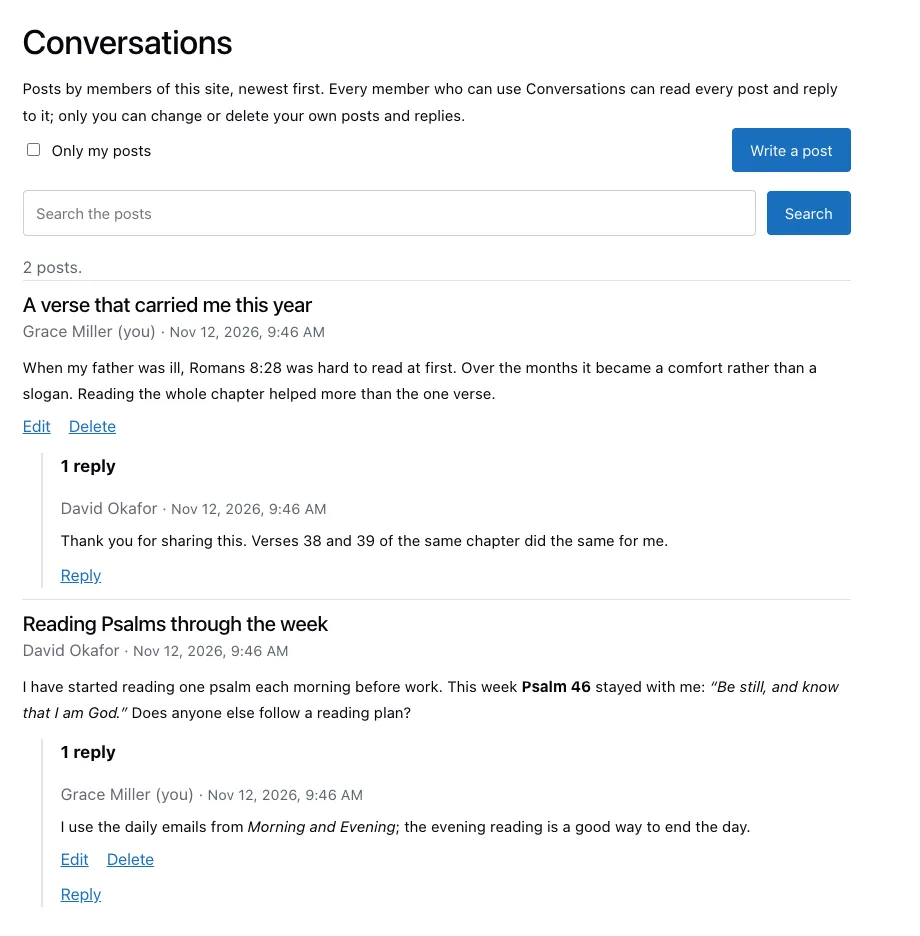
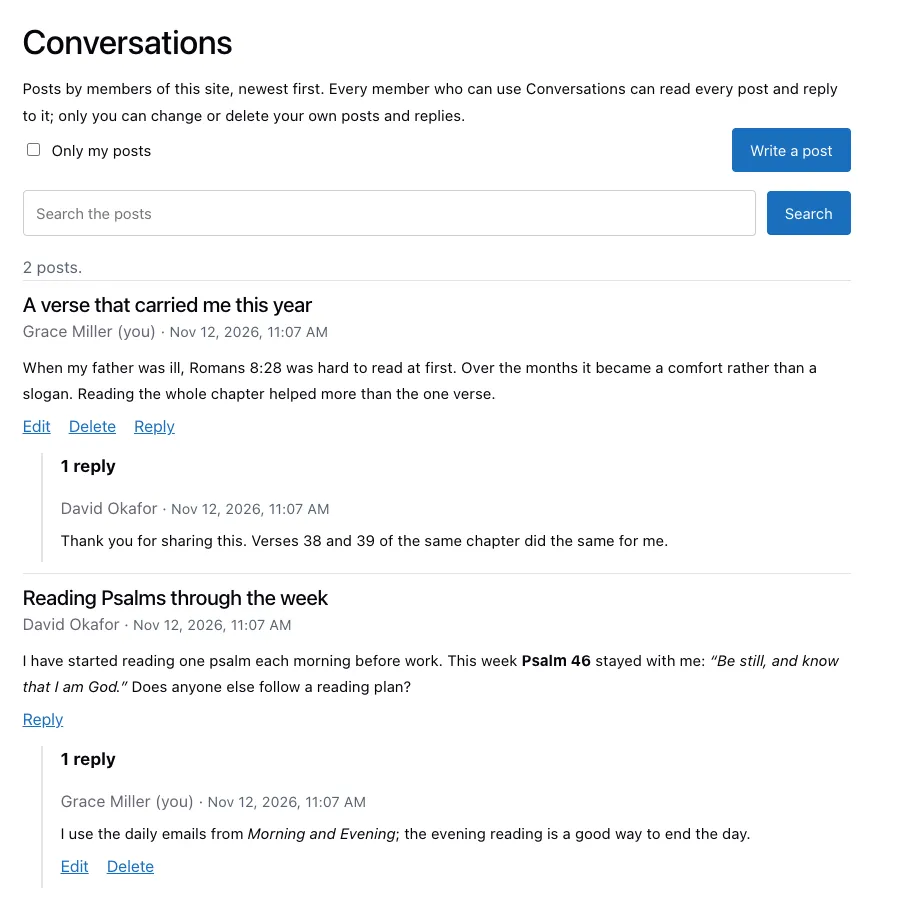
Put Reply on the post's own line in Conversations
Reply now sits beside Edit and Delete (or alone on another member's post), and
the indented replies area shows only when there are replies or one is being
written, so a post without replies no longer has an empty indented line. The
Help screenshot is retaken.

diff --git a/frontend/src/ConversationPostCard.tsx b/frontend/src/ConversationPostCard.tsx
@@ -70,29 +70,39 @@ function ConversationPostCard({ post, onChanged, onDeleted, highlightTerms }: Co
           {/* The server cleans the post (a short list of tags, safe links) before it keeps it; the search words are
               only wrapped in <mark> in its text. */}
           <div className="note-body" dangerouslySetInnerHTML={{ __html: shownBody }} />
-          {post.is_mine &&
-            (mode === 'confirming' ? (
-              <div className="note-actions" role="alert">
-                <span>Delete this post?</span>
-                <button type="button" className="link-button danger" disabled={isBusy} onClick={handleDelete}>
-                  {isBusy ? 'Deleting…' : 'Yes, delete it'}
+          {mode === 'confirming' ? (
+            <div className="note-actions" role="alert">
+              <span>Delete this post?</span>
+              <button type="button" className="link-button danger" disabled={isBusy} onClick={handleDelete}>
+                {isBusy ? 'Deleting…' : 'Yes, delete it'}
+              </button>
+              <button type="button" className="link-button" disabled={isBusy} onClick={() => setMode('reading')}>
+                No, keep it
+              </button>
+            </div>
+          ) : (
+            // One line under the post: Edit and Delete for its author, and Reply for every member.
+            <div className="note-actions">
+              {post.is_mine && (
+                <>
+                  <button type="button" className="link-button" onClick={() => setMode('editing')}>
+                    Edit
+                    <span className="visually-hidden"> the post {post.title}</span>
+                  </button>
+                  <button type="button" className="link-button" onClick={() => setMode('confirming')}>
+                    Delete
+                    <span className="visually-hidden"> the post {post.title}</span>
+                  </button>
+                </>
+              )}
+              {!isReplying && (
+                <button type="button" className="link-button" onClick={() => setIsReplying(true)}>
+                  Reply
+                  <span className="visually-hidden"> to {post.title}</span>
                 </button>
-                <button type="button" className="link-button" disabled={isBusy} onClick={() => setMode('reading')}>
-                  No, keep it
-                </button>
-              </div>
-            ) : (
-              <div className="note-actions">
-                <button type="button" className="link-button" onClick={() => setMode('editing')}>
-                  Edit
-                  <span className="visually-hidden"> the post {post.title}</span>
-                </button>
-                <button type="button" className="link-button" onClick={() => setMode('confirming')}>
-                  Delete
-                  <span className="visually-hidden"> the post {post.title}</span>
-                </button>
-              </div>
-            ))}
+              )}
+            </div>
+          )}
         </>
       )}
       {errorMessage && (
@@ -101,45 +111,43 @@ function ConversationPostCard({ post, onChanged, onDeleted, highlightTerms }: Co
         </p>
       )}
 
-      <section className="conversation-replies" aria-label={`Replies to ${post.title}`}>
-        {post.replies.length > 0 && (
-          <>
-            <h3 className="conversation-replies-heading">
-              {post.replies.length === 1 ? '1 reply' : `${post.replies.length} replies`}
-            </h3>
-            <ul className="conversation-reply-list">
-              {post.replies.map((reply) => (
-                <ConversationReplyItem
-                  key={reply.id}
-                  reply={reply}
-                  postTitle={post.title}
-                  highlightTerms={highlightTerms}
-                  onChanged={(changed) =>
-                    onChanged({ ...post, replies: post.replies.map((entry) => (entry.id === changed.id ? changed : entry)) })
-                  }
-                  onDeleted={(id) => onChanged({ ...post, replies: post.replies.filter((entry) => entry.id !== id) })}
-                />
-              ))}
-            </ul>
-          </>
-        )}
-        {isReplying ? (
-          <ConversationReplyForm
-            postId={post.id}
-            postTitle={post.title}
-            onSaved={(reply) => {
-              onChanged({ ...post, replies: [...post.replies, reply] })
-              setIsReplying(false)
-            }}
-            onCancel={() => setIsReplying(false)}
-          />
-        ) : (
-          <button type="button" className="link-button conversation-reply-button" onClick={() => setIsReplying(true)}>
-            Reply
-            <span className="visually-hidden"> to {post.title}</span>
-          </button>
-        )}
-      </section>
+      {/* The indented replies, shown only when there are some or one is being written. */}
+      {(post.replies.length > 0 || isReplying) && (
+        <section className="conversation-replies" aria-label={`Replies to ${post.title}`}>
+          {post.replies.length > 0 && (
+            <>
+              <h3 className="conversation-replies-heading">
+                {post.replies.length === 1 ? '1 reply' : `${post.replies.length} replies`}
+              </h3>
+              <ul className="conversation-reply-list">
+                {post.replies.map((reply) => (
+                  <ConversationReplyItem
+                    key={reply.id}
+                    reply={reply}
+                    postTitle={post.title}
+                    highlightTerms={highlightTerms}
+                    onChanged={(changed) =>
+                      onChanged({ ...post, replies: post.replies.map((entry) => (entry.id === changed.id ? changed : entry)) })
+                    }
+                    onDeleted={(id) => onChanged({ ...post, replies: post.replies.filter((entry) => entry.id !== id) })}
+                  />
+                ))}
+              </ul>
+            </>
+          )}
+          {isReplying && (
+            <ConversationReplyForm
+              postId={post.id}
+              postTitle={post.title}
+              onSaved={(reply) => {
+                onChanged({ ...post, replies: [...post.replies, reply] })
+                setIsReplying(false)
+              }}
+              onCancel={() => setIsReplying(false)}
+            />
+          )}
+        </section>
+      )}
     </li>
   )
 }

diff --git a/frontend/src/HelpPage.tsx b/frontend/src/HelpPage.tsx
@@ -707,7 +707,7 @@ function HelpPage({ translations, onNavigate, hasMusic = false }: HelpPageProps)
         <Screenshot
           name="conversations"
           width={920}
-          height={936}
+          height={917}
           alt="The Conversations page with two posts by two members, each with a reply, and Edit and Delete on the member's own post and reply"
           caption="Conversations: posts by members, newest first, with their replies, and Edit and Delete on your own."
         />

diff --git a/frontend/src/App.css b/frontend/src/App.css
@@ -2433,10 +2433,6 @@ select:disabled {
   margin-bottom: 0.25rem;
 }
 
-.conversation-reply-button {
-  font-size: 0.9rem;
-}
-
 .conversation-reply-form {
   margin-top: 0.5rem;
 }

diff --git a/CLAUDE.md b/CLAUDE.md
@@ -196,7 +196,7 @@ A web app that answers Bible questions using AI/ML.
 - **Only for a logged-in account an administrator allowed**: `users.use_conversations` (migration 028, `NOT NULL DEFAULT false`, like `open_ai_queries`), set with the "Conversations" checkbox on the Drupal Site users page (also a column of its list); returned by `GET /account/me` and the login answer. Without it the sidebar group **Members › Conversations** and the card at the foot of the welcome page (under the FAQ line, `canUseConversations` on `WelcomePage`; `ConversationsWelcomeCard.tsx`, which also shows the **latest post**: its title, author, date and first paragraph as plain text, cut at a word after 300 characters, fetched with `per_page=1` each time the welcome page opens; added 2026-11-12 at the owner's request) are not shown; the address `/conversations` then says it is for invited members (log in, or ask on the Contact page). Not in `sitemap.xml`.
 - Backend `ml-service/conversations.py`, endpoints in `main.py` (`conversations_account`: 401 logged out, 403 without the flag, on every endpoint): `GET /conversations?query=&mine=&page=&per_page=` (every member's posts, newest first, 10 a page by default, at most 50; `query` keeps the posts with every word, up to 10, in any case and any part of a word, in the title, the plain text or the author's name; `mine=true` the member's own), `POST /conversations` `{title, body}`, `PUT /conversations/{id}` (replaces both, sets `updated_at`) and `DELETE /conversations/{id}`; another member's post is 404 for change or delete, as with notes. Each post comes with `author` (first and last name read at answer time, **"A member" when the account has none; the address is never shown**) and `is_mine`. The body is cleaned with `check_rich_text` (the contact form's allowlist), up to 20,000 characters of text (`POST_TEXT_LIMIT`); a title is 1 to 200 characters, spaces squeezed; 1,000 posts an account (`MAX_POSTS_PER_USER`).
 - Table `conversation_posts` (migration 028: `user_id` `ON DELETE CASCADE` from `users`, `title`, `body`, `body_text`, `created_at`, `updated_at`); not in `schema.sql`, like the other account tables, and `make-public-data.sh` leaves its rows out (`personal_tables`). The search is `ILIKE` with no index (fine for a members' blog; add a text-search column like the commentaries' if it grows large).
-- **Replies** (migration 029, table `conversation_replies`: `post_id` `ON DELETE CASCADE` from `conversation_posts`, `user_id` from `users`, `body`, `body_text`, times; not in `schema.sql`; `make-public-data.sh` leaves its rows out): any allowed member may reply to any post; only the author changes or deletes a reply (another's is 404); deleting a post deletes its replies. `POST /conversations/{post_id}/replies` `{body}` (404 when the post is gone), `PUT /conversations/replies/{id}`, `DELETE /conversations/replies/{id}`, all flag-checked like the posts. Each post in `GET /conversations` carries `replies` (oldest first, each with `author` and `is_mine`; read in one query for the page, `_with_replies`), and the search also matches the words of a reply. Up to 5,000 characters of text a reply (`REPLY_TEXT_LIMIT`), 5,000 replies an account (`MAX_REPLIES_PER_USER`). The page shows them under each post, indented with a line on the left, with a **Reply** button (`ConversationReplyItem.tsx`, `ConversationReplyForm.tsx`: a plain container with a `type="button"` Save, not a form; Edit in place, Delete asks first, search words highlighted).
+- **Replies** (migration 029, table `conversation_replies`: `post_id` `ON DELETE CASCADE` from `conversation_posts`, `user_id` from `users`, `body`, `body_text`, times; not in `schema.sql`; `make-public-data.sh` leaves its rows out): any allowed member may reply to any post; only the author changes or deletes a reply (another's is 404); deleting a post deletes its replies. `POST /conversations/{post_id}/replies` `{body}` (404 when the post is gone), `PUT /conversations/replies/{id}`, `DELETE /conversations/replies/{id}`, all flag-checked like the posts. Each post in `GET /conversations` carries `replies` (oldest first, each with `author` and `is_mine`; read in one query for the page, `_with_replies`), and the search also matches the words of a reply. Up to 5,000 characters of text a reply (`REPLY_TEXT_LIMIT`), 5,000 replies an account (`MAX_REPLIES_PER_USER`). The page shows them under each post, indented with a line on the left (the indented area only when there are replies or one is being written), with a **Reply** button on the post's own line beside Edit and Delete (`ConversationReplyItem.tsx`, `ConversationReplyForm.tsx`: a plain container with a `type="button"` Save, not a form; Edit in place, Delete asks first, search words highlighted).
 - Frontend `ConversationsPage.tsx` (kept mounted, keyed on the account, so a half-written post survives going to another page; it loads only once shown), `ConversationPostCard.tsx` (one post, Edit in place, Delete asks first, search words highlighted with `highlightHtml`), `ConversationPostForm.tsx` (title and the shared Quill `RichTextEditor`); `fetchConversationPage`, `saveConversationPost`, `deleteConversationPost` in `api.ts`. Styles reuse My notes' (`.note`, `.notes-toolbar`, `.notes-search`, `.pagination`) plus `.conversation-*`. The Help page has a Conversations section with a screenshot (`public/help/conversations.webp`, retaken 2026-11-12 with replies, in headless Chrome with puppeteer-core at 1152 wide, the page content only, from two temporary accounts with made-up names, deleted afterwards).
 - Tests: `tests/test_conversations.py` (20: posts, replies and the admin tool; real database, their own `@conversations-test.example` accounts). Checked locally on 2026-11-12 in the built-in browser with two temporary accounts (deleted afterwards): the sidebar entry and welcome card shown only with the flag, write, edit (with "edited" time), search with highlighting, delete, another member's post without Edit or Delete, a phone width, and the page with the flag turned off. The Drupal checkbox was checked only through `manage_users.py` (create with the flag, update it off) and `php -l`; the form itself was not opened in DDEV.
 - **Admin page** (Drupal, https://cms.bible-and-beyond.com/admin/conversations, "Conversations" in the admin menu; permission `administer site users`, so the administrator and Website administrator roles, not the Bible administrator): every post newest first, 50 a page, with a search (title, text, author's name or address), its beginning (200 characters), its author with their address, when written and changed, a Replies count, and "Read and delete", which shows the whole post (the stored HTML, filtered again by Drupal's `#markup`) with its replies, each with the author's address and a **Delete this reply** link (`DeleteConversationReplyForm`, route `bible_admin.conversation_reply_delete`, `/admin/conversations/replies/{id}/delete`; it asks first and returns to the post), and asks before deleting the post with its replies. The search also matches reply text. The author is not told. The Drupal log (type `bible_admin`) says who deleted which post and whose, never its text. Code: `ConversationListController`, `ConversationSearchForm`, `DeleteConversationPostForm`; `BibleManager::listConversationPosts`, `getConversationPost`, `deleteConversationPost`; `BibleManager::getConversationReply`, `deleteConversationReply`. Drupal runs `ml-service/scripts/manage_conversations.py` (`list`, `get` (with the replies), `delete`, `get-reply`, `delete-reply`; JSON answers), which calls `admin_list_posts`, `admin_get_post`, `admin_delete_post`, `admin_get_reply`, `admin_delete_reply` in `conversations.py`. The replies were checked the same way in DDEV (the post page with its replies, deleting one reply, its log line, a Bible administrator refused), and local Drupal was put back afterwards. Checked locally on 2026-11-12 with the module on in DDEV and a stand-in for the tool: the list, the search, the post shown on the delete page (a `<script>` tag dropped), delete, the log line, the menu entry, a Website administrator allowed and a Bible administrator refused; the module, the temporary users and roles and the stand-in were removed afterwards.
